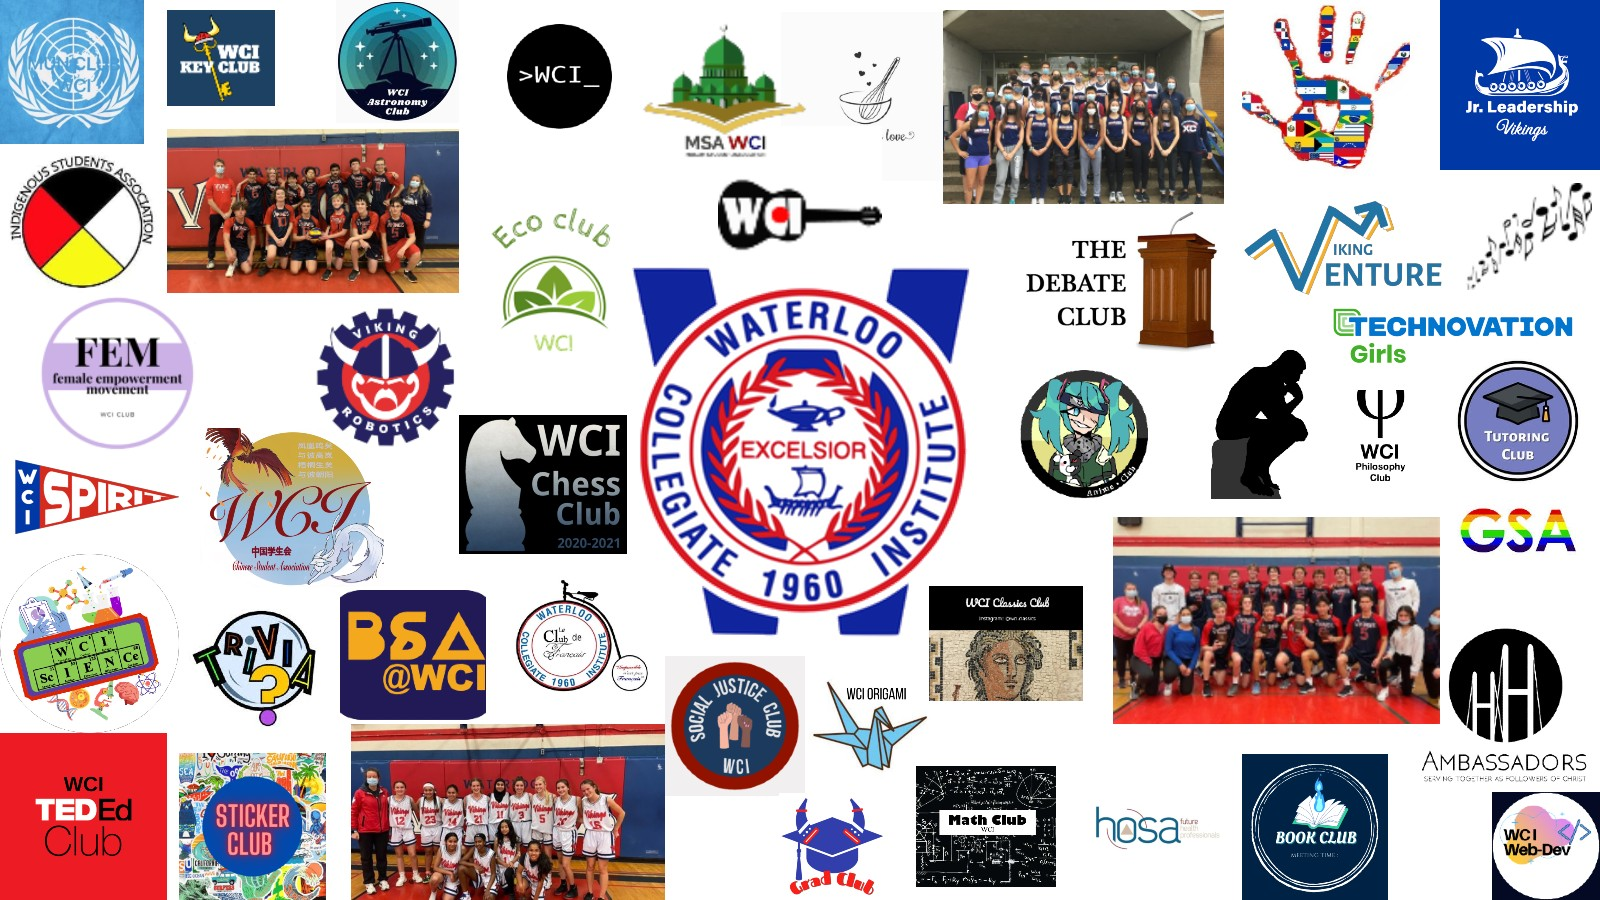
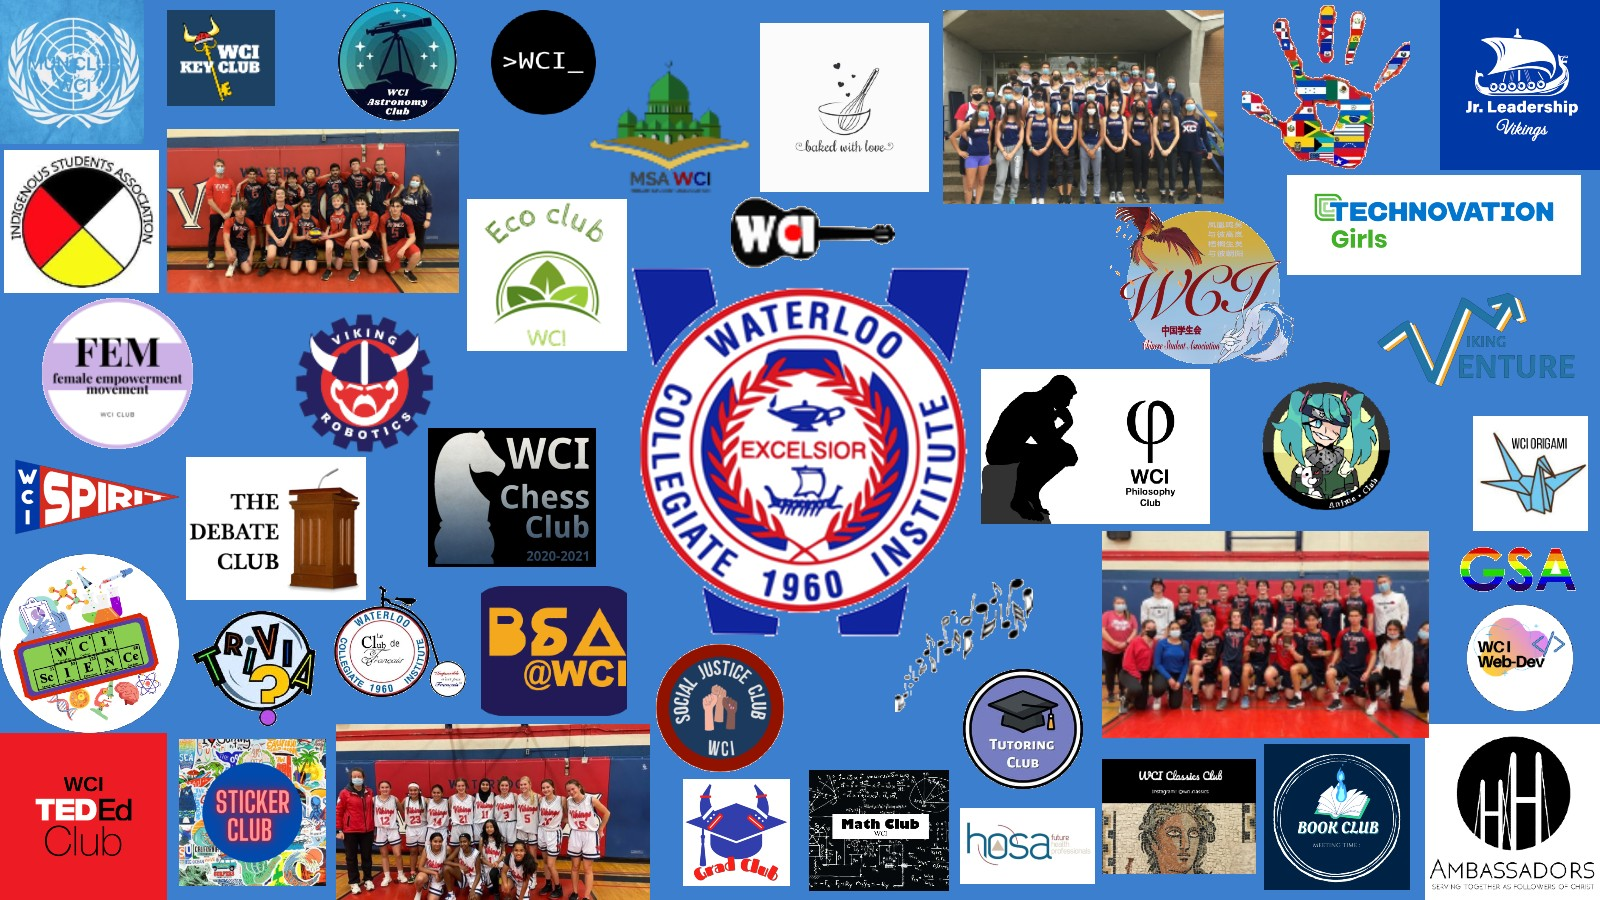
attempting to add collage background

diff --git a/css/main.css b/css/main.css
@@ -47,7 +47,44 @@ iframe {
 header.masthead {
 	min-height: 100vh;
 	display: flex;
+	flex-direction: column;
 	align-items: center;
+	justify-content: center;
+	padding: 0 20px;
+}
+
+.img-container {
+	position: relative;
+	overflow: hidden;
+	top: 0;
+	left: 0;
+	width: 100%;
+	/* height: 100%; */
+	background: var(--theme-lightblue) url('assets/collage.jpg') no-repeat center center/cover;
+}
+
+.img-container img{
+	min-height: 100%;
+	min-width: 100%;
+	object-fit: cover;
+	/* position: absolute; */
+	top: 50%;
+	left: 50%;
+	transform: translate((-50%, -50%));
+}
+
+.img-container::after {
+	content: '';
+	position: absolute;
+	top: 0;
+	left: 0;
+	width: 100%;
+	height: 100%;
+	background: rgba(60, 127, 207, 0.6);
+}
+
+.container .landing {
+	z-index: 10;
 }
 
 #main {

diff --git a/index.html b/index.html
@@ -49,6 +49,9 @@
         </nav>
         <!-- Masthead-->
         <header class="masthead">
+            <div class="img-container">
+                <img src="assets/collage.jpg">
+            </div>
             <div class="container landing">
                 <div class="masthead-subheading">Welcome to WCI Extracurriculars!</div>
                 <div class="masthead-heading text-uppercase">Explore Your Options</div>
